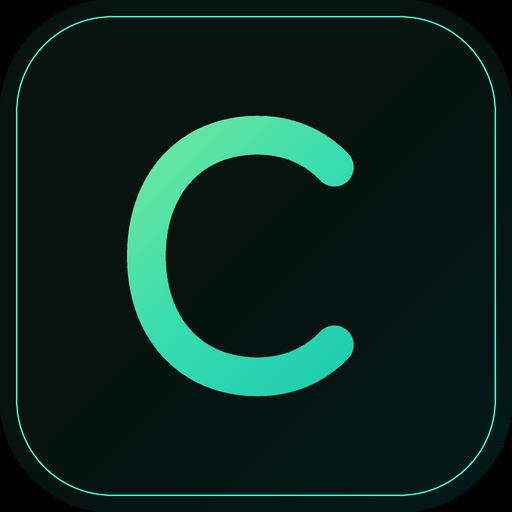
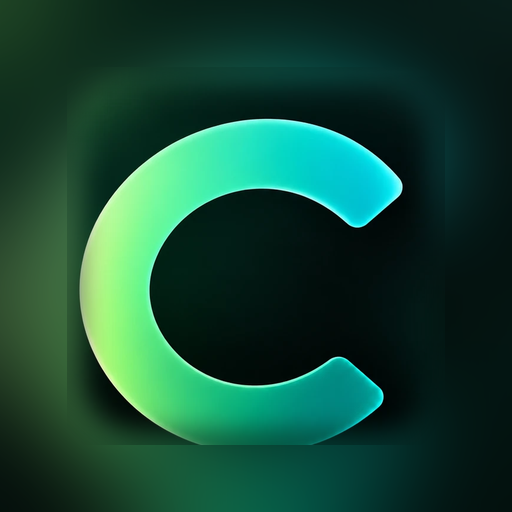
feat(marca): icone da tela inicial volta a usar a imagem aprovada de vidro
- icone-512/192/180/32, maskable e favicon.ico gerados da imagem aprovada
  (Imagens/CALc_final/CALc_logo_aprovado): C com acabamento de vidro e brilho
- C composto sobre o proprio brilho da imagem, com respiro nas bordas e sem
  pegar o nome embaixo; maskable com o C dentro da area segura do Android
- removido o favicon SVG (C chapado), que o navegador priorizava
- imagem de compartilhamento (og:image) volta a ser a composicao completa
- assinatura horizontal em vetor no cabecalho e versao mono no PDF mantidas

Sem alteracao em calculos, parametros ou integracoes.

diff --git a/index.html b/index.html
@@ -11,7 +11,6 @@
 
     <!-- Marca CALc: icone na tela inicial do celular, favicon e cor do app -->
     <link rel="icon" href="marca/favicon.ico" sizes="any">
-    <link rel="icon" type="image/svg+xml" href="marca/icone.svg">
     <link rel="icon" type="image/png" sizes="32x32" href="marca/icone-32.png">
     <link rel="apple-touch-icon" sizes="180x180" href="marca/icone-180.png">
     <link rel="manifest" href="manifest.webmanifest">
@@ -25,7 +24,7 @@
     <meta property="og:type" content="website">
     <meta property="og:title" content="CALc — Simulador de Financiamento Imobiliário">
     <meta property="og:description" content="Descubra a entrada, a renda necessária e os custos para comprar o imóvel que você tem em vista.">
-    <meta property="og:image" content="https://simule-aqui.netlify.app/marca/icone-512.png">
+    <meta property="og:image" content="https://simule-aqui.netlify.app/marca/logo-512.png">
     <meta property="og:locale" content="pt_BR">
     <meta name="twitter:card" content="summary_large_image">
 </head>
